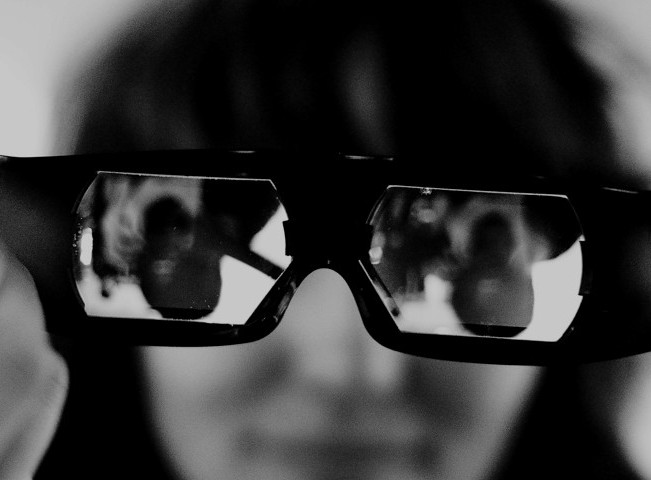
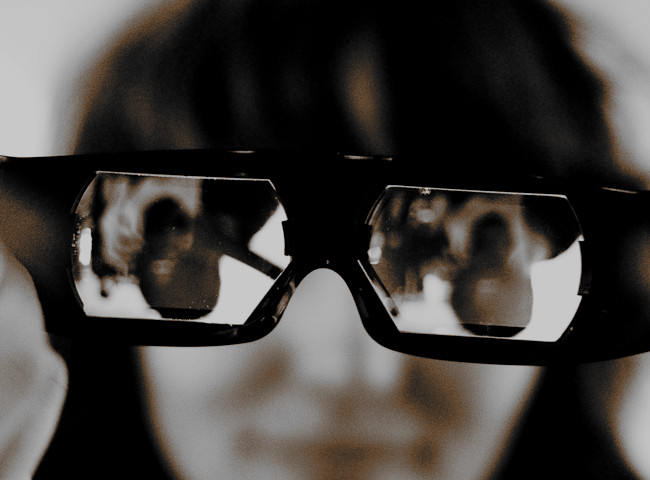
colour changes

diff --git a/css/grayscale.css b/css/grayscale.css
@@ -8,8 +8,8 @@ body {
     width: 100%;
     height: 100%;
     font-family: Lora,"Helvetica Neue",Helvetica,Arial,sans-serif;
-    color: #fff;
-    background-color: #000;
+    color: #000000;
+    background-color: #dddddd;
 }
 
 html {
@@ -28,6 +28,7 @@ h6 {
     font-family: Montserrat,"Helvetica Neue",Helvetica,Arial,sans-serif;
     font-weight: 700;
     letter-spacing: 1px;
+    color: #cc7a00;
 }
 
 p {
@@ -49,7 +50,7 @@ p {
 }
 
 a {
-    color: #42dca3;
+    color: #cc7a00;
     -webkit-transition: all .2s ease-in-out;
     -moz-transition: all .2s ease-in-out;
     transition: all .2s ease-in-out;
@@ -67,7 +68,7 @@ a:focus {
 
 .navbar-custom {
     margin-bottom: 0;
-    border-bottom: 1px solid rgba(255,255,255,.3);
+    border-bottom: 1px solid #cc7a00;
     text-transform: uppercase;
     font-family: Montserrat,"Helvetica Neue",Helvetica,Arial,sans-serif;
     background-color: #000;
@@ -139,7 +140,7 @@ a:focus {
 
     .navbar-custom.top-nav-collapse {
         padding: 0;
-        border-bottom: 1px solid rgba(255,255,255,.3);
+        border-bottom: 1px solid #cc7a00;
         background: #000;
     }
 }
@@ -150,7 +151,7 @@ a:focus {
     height: auto;
     padding: 100px 0;
     text-align: center;
-    color: #fff;
+    color: #cc7a00;
     background: url(../img/intro-bg.jpg) no-repeat 50% 30% scroll;
     background-color: #000;
     -webkit-background-size: cover;
@@ -313,17 +314,17 @@ a:focus {
 }
 
 .btn-default {
-    border: 1px solid #42dca3;
-    color: #42dca3;
+    border: 1px solid #cc7a00;
+    color: #cc7a00;
     background-color: transparent;
 }
 
 .btn-default:hover,
 .btn-default:focus {
-    border: 1px solid #42dca3;
+    border: 1px solid #cc7a00;
     outline: 0;
     color: #000;
-    background-color: #42dca3;
+    background-color: #cc7a00;
 }
 
 ul.banner-social-buttons {
